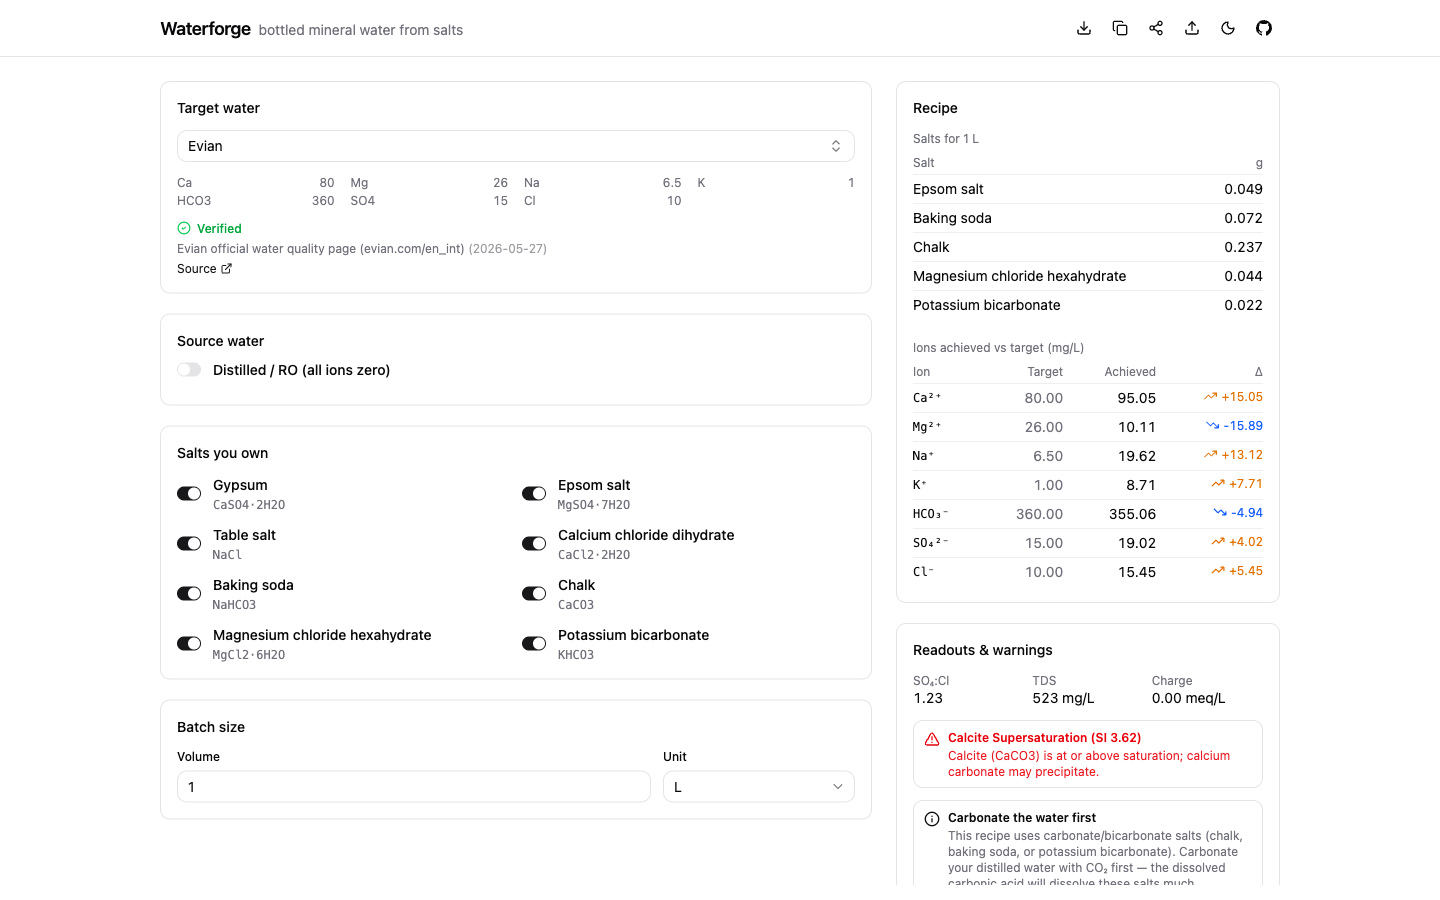
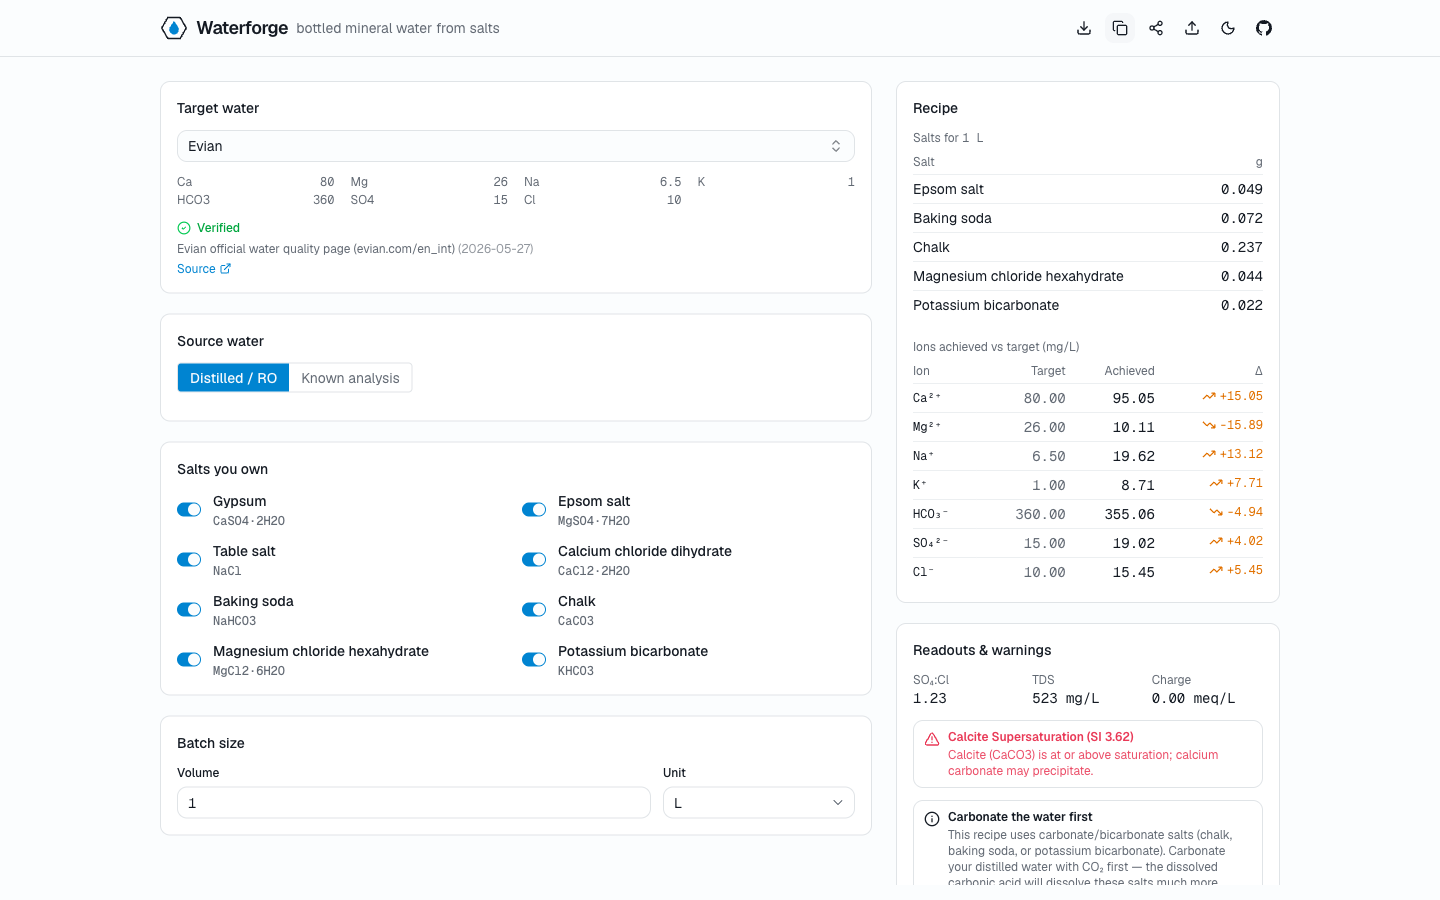
feat(ui): apply Waterforge brand system
Implements the Waterforge Brand Guidelines on the live shadcn-svelte app:
cool-slate neutrals carry every surface while sky-blue is reserved for
active/interactive state only (--primary, --ring), per the "blue means
alive" rule.

- color: recolor all shadcn tokens to cool-slate (light "lab white" /
  dark "instrument panel"); --primary -> sky-600/400, --ring -> sky-500/400.
  shadcn's neutral --accent hover token intentionally stays neutral.
- type: self-host Geist + Geist Mono via @fontsource-variable; wire
  --font-sans/--font-mono. Apply Geist Mono + tabular figures to all
  quantitative data (recipe, readouts, ion grid, numeric inputs).
- logo: add hexagon-and-droplet mark (droplet = the lone sky element)
  to the header lockup and the favicon.
- recipe: both over- and under-target deltas now use the amber warning
  tone; blue is no longer used for status (brand rule).
- docs: refresh README hero screenshot to the new brand.

diff --git a/src/app.css b/src/app.css
@@ -3,50 +3,63 @@
 
 @custom-variant dark (&:is(.dark *));
 
+/* ============================================================
+   WATERFORGE — Brand tokens
+   Cool-slate neutrals carry every surface, border, and text tone.
+   Sky-blue is reserved for active / interactive state only
+   (--primary, --ring). It is never a neutral surface or status hue.
+   See: Waterforge Brand Guidelines — Color.
+   ============================================================ */
 :root {
-  --radius: 0.625rem;
+  --radius: 0.625rem; /* 10px — brand radius */
 
-  --background: oklch(1 0 0);
-  --foreground: oklch(0.141 0.005 285.823);
+  /* light — "lab white" */
+  --background: oklch(0.992 0.002 247);
+  --foreground: oklch(0.215 0.02 257);
   --card: oklch(1 0 0);
-  --card-foreground: oklch(0.141 0.005 285.823);
+  --card-foreground: oklch(0.215 0.02 257);
   --popover: oklch(1 0 0);
-  --popover-foreground: oklch(0.141 0.005 285.823);
-  --primary: oklch(0.21 0.006 285.885);
-  --primary-foreground: oklch(0.985 0 0);
-  --secondary: oklch(0.967 0.001 286.375);
-  --secondary-foreground: oklch(0.21 0.006 285.885);
-  --muted: oklch(0.967 0.001 286.375);
-  --muted-foreground: oklch(0.552 0.016 285.938);
-  --accent: oklch(0.967 0.001 286.375);
-  --accent-foreground: oklch(0.21 0.006 285.885);
-  --destructive: oklch(0.577 0.245 27.325);
+  --popover-foreground: oklch(0.215 0.02 257);
+  /* primary = sky-600 (#0284c7) — the lone accent, active states only */
+  --primary: oklch(0.588 0.158 241.966);
+  --primary-foreground: oklch(0.985 0.005 247);
+  --secondary: oklch(0.975 0.004 247);
+  --secondary-foreground: oklch(0.215 0.02 257);
+  --muted: oklch(0.975 0.004 247);
+  --muted-foreground: oklch(0.52 0.018 257);
+  /* accent here is shadcn's *neutral* hover token — intentionally not blue */
+  --accent: oklch(0.975 0.004 247);
+  --accent-foreground: oklch(0.215 0.02 257);
+  --destructive: oklch(0.62 0.21 17);
   --destructive-foreground: oklch(0.985 0 0);
-  --border: oklch(0.92 0.004 286.32);
-  --input: oklch(0.92 0.004 286.32);
-  --ring: oklch(0.705 0.015 286.067);
+  --border: oklch(0.916 0.006 247);
+  --input: oklch(0.916 0.006 247);
+  /* ring = sky-500 (#0ea5e9) — the focus signal */
+  --ring: oklch(0.685 0.169 237.323);
 }
 
 .dark {
-  --background: oklch(0.141 0.005 285.823);
-  --foreground: oklch(0.985 0 0);
-  --card: oklch(0.21 0.006 285.885);
-  --card-foreground: oklch(0.985 0 0);
-  --popover: oklch(0.21 0.006 285.885);
-  --popover-foreground: oklch(0.985 0 0);
-  --primary: oklch(0.92 0.004 286.32);
-  --primary-foreground: oklch(0.21 0.006 285.885);
-  --secondary: oklch(0.274 0.006 286.033);
-  --secondary-foreground: oklch(0.985 0 0);
-  --muted: oklch(0.274 0.006 286.033);
-  --muted-foreground: oklch(0.705 0.015 286.067);
-  --accent: oklch(0.274 0.006 286.033);
-  --accent-foreground: oklch(0.985 0 0);
-  --destructive: oklch(0.704 0.191 22.216);
+  /* dark — "instrument panel" */
+  --background: oklch(0.168 0.012 257);
+  --foreground: oklch(0.965 0.004 247);
+  --card: oklch(0.205 0.014 257);
+  --card-foreground: oklch(0.965 0.004 247);
+  --popover: oklch(0.205 0.014 257);
+  --popover-foreground: oklch(0.965 0.004 247);
+  /* primary = sky-400 (#38bdf8) — brighter so it stays "alive" on dark */
+  --primary: oklch(0.746 0.16 232.661);
+  --primary-foreground: oklch(0.16 0.02 257);
+  --secondary: oklch(0.245 0.015 257);
+  --secondary-foreground: oklch(0.965 0.004 247);
+  --muted: oklch(0.245 0.015 257);
+  --muted-foreground: oklch(0.715 0.014 257);
+  --accent: oklch(0.245 0.015 257);
+  --accent-foreground: oklch(0.965 0.004 247);
+  --destructive: oklch(0.68 0.19 17);
   --destructive-foreground: oklch(0.985 0 0);
-  --border: oklch(1 0 0 / 10%);
-  --input: oklch(1 0 0 / 15%);
-  --ring: oklch(0.552 0.016 285.938);
+  --border: oklch(0.305 0.015 257);
+  --input: oklch(0.305 0.015 257);
+  --ring: oklch(0.746 0.16 232.661);
 }
 
 @theme inline {
@@ -54,6 +67,11 @@
   --radius-md: calc(var(--radius) - 2px);
   --radius-lg: var(--radius);
   --radius-xl: calc(var(--radius) + 4px);
+
+  /* type — Geist for words, Geist Mono for all quantitative data */
+  --font-sans:
+    'Geist Variable', ui-sans-serif, system-ui, -apple-system, sans-serif;
+  --font-mono: 'Geist Mono Variable', ui-monospace, 'SF Mono', Menlo, monospace;
 
   --color-background: var(--background);
   --color-foreground: var(--foreground);
@@ -85,5 +103,8 @@
   body {
     background-color: var(--color-background);
     color: var(--color-foreground);
+    font-family: var(--font-sans);
+    -webkit-font-smoothing: antialiased;
+    text-rendering: optimizeLegibility;
   }
 }

diff --git a/src/components/RecipePanel.svelte b/src/components/RecipePanel.svelte
@@ -85,7 +85,9 @@
     <!-- Salt recipe table -->
     <div class="mb-5">
       <p class="text-muted-foreground mb-2 text-xs">
-        Salts for {app.batch.volume}&nbsp;{app.batch.unit}
+        Salts for <span class="font-mono"
+          >{app.batch.volume}&nbsp;{app.batch.unit}</span
+        >
       </p>
       <table class="w-full text-sm">
         <thead class="text-muted-foreground text-xs">
@@ -98,7 +100,9 @@
           {#each doses as d (d.id)}
             <tr class="border-border/60 border-t">
               <td class="py-1">{SALTS[d.id].name}</td>
-              <td class="py-1 text-right tabular-nums">{d.grams.toFixed(3)}</td>
+              <td class="py-1 text-right font-mono tabular-nums"
+                >{d.grams.toFixed(3)}</td
+              >
             </tr>
           {/each}
         </tbody>
@@ -124,13 +128,14 @@
             {#each ionRows() as row (row.id)}
               <tr class="border-border/60 border-t">
                 <td class="py-1 font-mono text-xs">{row.label}</td>
-                <td class="text-muted-foreground py-1 text-right tabular-nums"
+                <td
+                  class="text-muted-foreground py-1 text-right font-mono tabular-nums"
                   >{fmtMgl(row.target)}</td
                 >
-                <td class="py-1 text-right tabular-nums"
+                <td class="py-1 text-right font-mono tabular-nums"
                   >{fmtMgl(row.achieved)}</td
                 >
-                <td class="py-1 text-right tabular-nums">
+                <td class="py-1 text-right font-mono tabular-nums">
                   {#if row.status === 'ok'}
                     <span class="text-muted-foreground text-xs">✓</span>
                   {:else if row.status === 'over'}
@@ -142,8 +147,12 @@
                       {fmtDelta(row.delta)}
                     </span>
                   {:else}
+                    <!-- Both over- and under-target are "out of tolerance"
+                         deviations; the brand reserves blue for active state,
+                         not status, so both directions use the amber warning
+                         tone and the arrow icon carries the direction. -->
                     <span
-                      class="inline-flex items-center justify-end gap-1 text-xs text-blue-600 dark:text-blue-400"
+                      class="inline-flex items-center justify-end gap-1 text-xs text-amber-600 dark:text-amber-400"
                       aria-label="Below target by {fmtDelta(row.delta)} mg/L"
                     >
                       <TrendingDownIcon class="size-3.5" aria-hidden="true" />

diff --git a/src/components/ReadoutsPanel.svelte b/src/components/ReadoutsPanel.svelte
@@ -96,19 +96,21 @@
         title="Sulfate-to-chloride mass ratio (mg/L ÷ mg/L). Higher values favour a drier, more mineral character; lower values favour a rounder, softer taste."
       >
         <dt class="text-muted-foreground text-xs">SO₄:Cl</dt>
-        <dd class="tabular-nums">{so4cl}</dd>
+        <dd class="font-mono tabular-nums">{so4cl}</dd>
       </div>
       <div
         title="Total dissolved solids — sum of all modelled ion concentrations (mg/L). Typical drinking water: 50–500 mg/L."
       >
         <dt class="text-muted-foreground text-xs">TDS</dt>
-        <dd class="tabular-nums">{Math.round(result.readouts.tds)} mg/L</dd>
+        <dd class="font-mono tabular-nums">
+          {Math.round(result.readouts.tds)} mg/L
+        </dd>
       </div>
       <div
         title="Charge-balance residual (meq/L). Near zero means cation and anion charges balance; a large residual suggests mismatched source data or a unit convention error."
       >
         <dt class="text-muted-foreground text-xs">Charge</dt>
-        <dd class="tabular-nums">
+        <dd class="font-mono tabular-nums">
           {result.readouts.chargeResidual.toFixed(2)} meq/L
         </dd>
       </div>

diff --git a/src/components/icons/WaterforgeMark.svelte b/src/components/icons/WaterforgeMark.svelte
@@ -1,0 +1,28 @@
+<script lang="ts">
+  // Waterforge mark: a hexagon (the mineral lattice / the forge) holding a
+  // single droplet. Per the brand, the droplet is the *only* blue — the same
+  // rule that governs the whole system: blue marks the living, active element.
+  // The hexagon inherits `currentColor` (stays neutral); the droplet fills
+  // with --primary (sky).
+  let { class: className }: { class?: string } = $props()
+</script>
+
+<svg
+  viewBox="0 0 32 32"
+  class={className}
+  fill="none"
+  aria-hidden="true"
+  focusable="false"
+>
+  <polygon
+    points="30,16 23,28.12 9,28.12 2,16 9,3.88 23,3.88"
+    fill="none"
+    stroke="currentColor"
+    stroke-width="1.7"
+    stroke-linejoin="round"
+  />
+  <path
+    d="M16 8 C 12.5 13 10.5 15.5 10.5 18 a 5.5 5.5 0 1 0 11 0 C 21.5 15.5 19.5 13 16 8 Z"
+    style="fill: var(--primary)"
+  />
+</svg>

diff --git a/src/components/Header.svelte b/src/components/Header.svelte
@@ -5,6 +5,7 @@
   import SunIcon from '@lucide/svelte/icons/sun'
   import MoonIcon from '@lucide/svelte/icons/moon'
   import GitHubMark from './icons/GitHubMark.svelte'
+  import WaterforgeMark from './icons/WaterforgeMark.svelte'
 </script>
 
 <header
@@ -13,7 +14,8 @@
   <div
     class="mx-auto flex max-w-6xl items-center justify-between gap-2 px-4 py-3 sm:gap-4"
   >
-    <div class="flex min-w-0 items-baseline gap-2">
+    <div class="flex min-w-0 items-center gap-2">
+      <WaterforgeMark class="text-foreground size-7 shrink-0" />
       <span class="text-lg font-semibold tracking-tight">Waterforge</span>
       <span class="text-muted-foreground hidden truncate text-sm sm:inline">
         bottled mineral water from salts

diff --git a/src/vite-env.d.ts b/src/vite-env.d.ts
@@ -4,3 +4,8 @@
 // Injected at build time by Vite's `define` (see vite.config.ts), sourced from
 // package.json so it tracks the release-please version bump.
 declare const __APP_VERSION__: string
+
+// @fontsource-variable packages ship CSS only (no type declarations); these
+// side-effect imports register the self-hosted Geist webfonts. See src/main.ts.
+declare module '@fontsource-variable/geist'
+declare module '@fontsource-variable/geist-mono'

diff --git a/src/components/SourceSection.svelte b/src/components/SourceSection.svelte
@@ -167,7 +167,7 @@
               oninput={(e) =>
                 handleInput(ion as IonId, (e.target as HTMLInputElement).value)}
               onblur={() => handleBlur(ion as IonId)}
-              class="h-7 pr-8 text-xs"
+              class="h-7 pr-8 font-mono text-xs"
             />
             <span
               class="text-muted-foreground pointer-events-none absolute right-2 top-1/2 -translate-y-1/2 text-xs"

diff --git a/src/main.ts b/src/main.ts
@@ -1,4 +1,8 @@
 import { mount } from 'svelte'
+// Self-hosted brand typefaces (Geist for words, Geist Mono for data).
+// Variable fonts cover the full 100–900 weight range in a single file each.
+import '@fontsource-variable/geist'
+import '@fontsource-variable/geist-mono'
 import './app.css'
 import App from './App.svelte'
 

diff --git a/src/components/TargetSection.svelte b/src/components/TargetSection.svelte
@@ -71,7 +71,7 @@
         {#if app.target.ions[ion] != null}
           <div class="flex justify-between gap-2">
             <dt>{ion}</dt>
-            <dd class="tabular-nums">{app.target.ions[ion]}</dd>
+            <dd class="font-mono tabular-nums">{app.target.ions[ion]}</dd>
           </div>
         {/if}
       {/each}

diff --git a/src/components/BatchSection.svelte b/src/components/BatchSection.svelte
@@ -56,7 +56,7 @@
         value={rawVolume}
         oninput={handleVolumeInput}
         onblur={handleVolumeBlur}
-        class="w-full"
+        class="w-full font-mono"
         aria-label="Batch volume"
       />
     </div>
